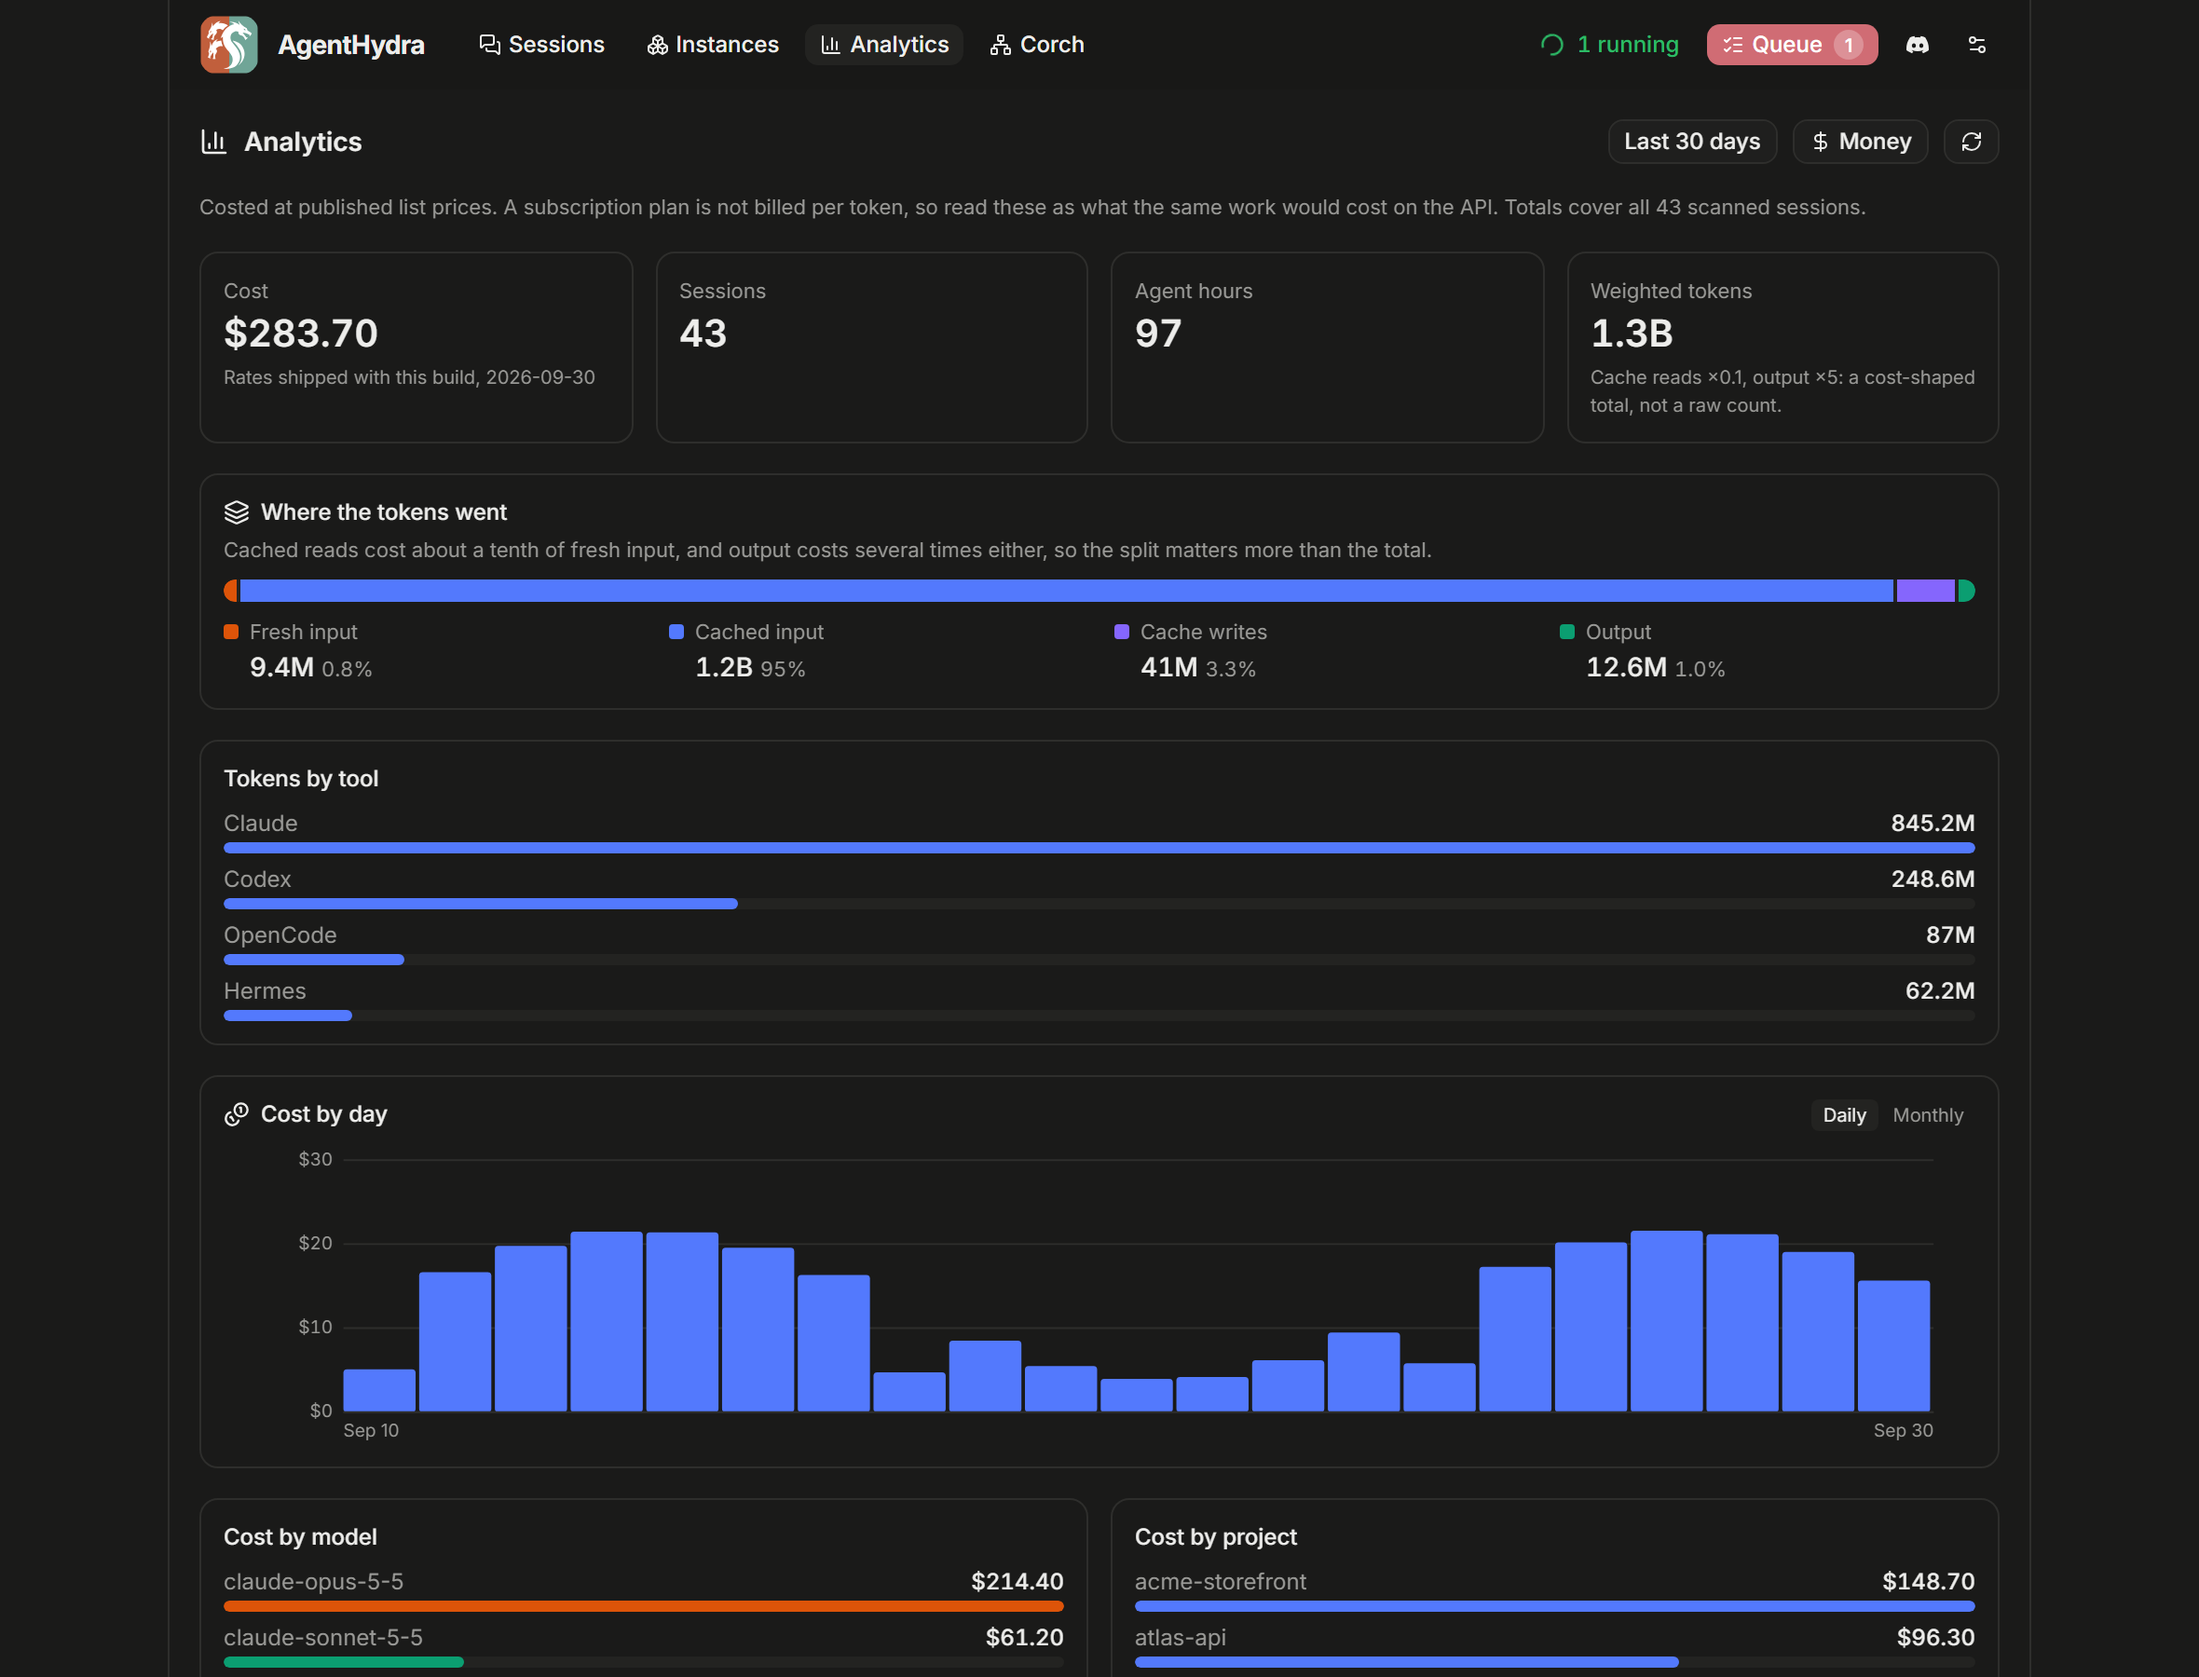
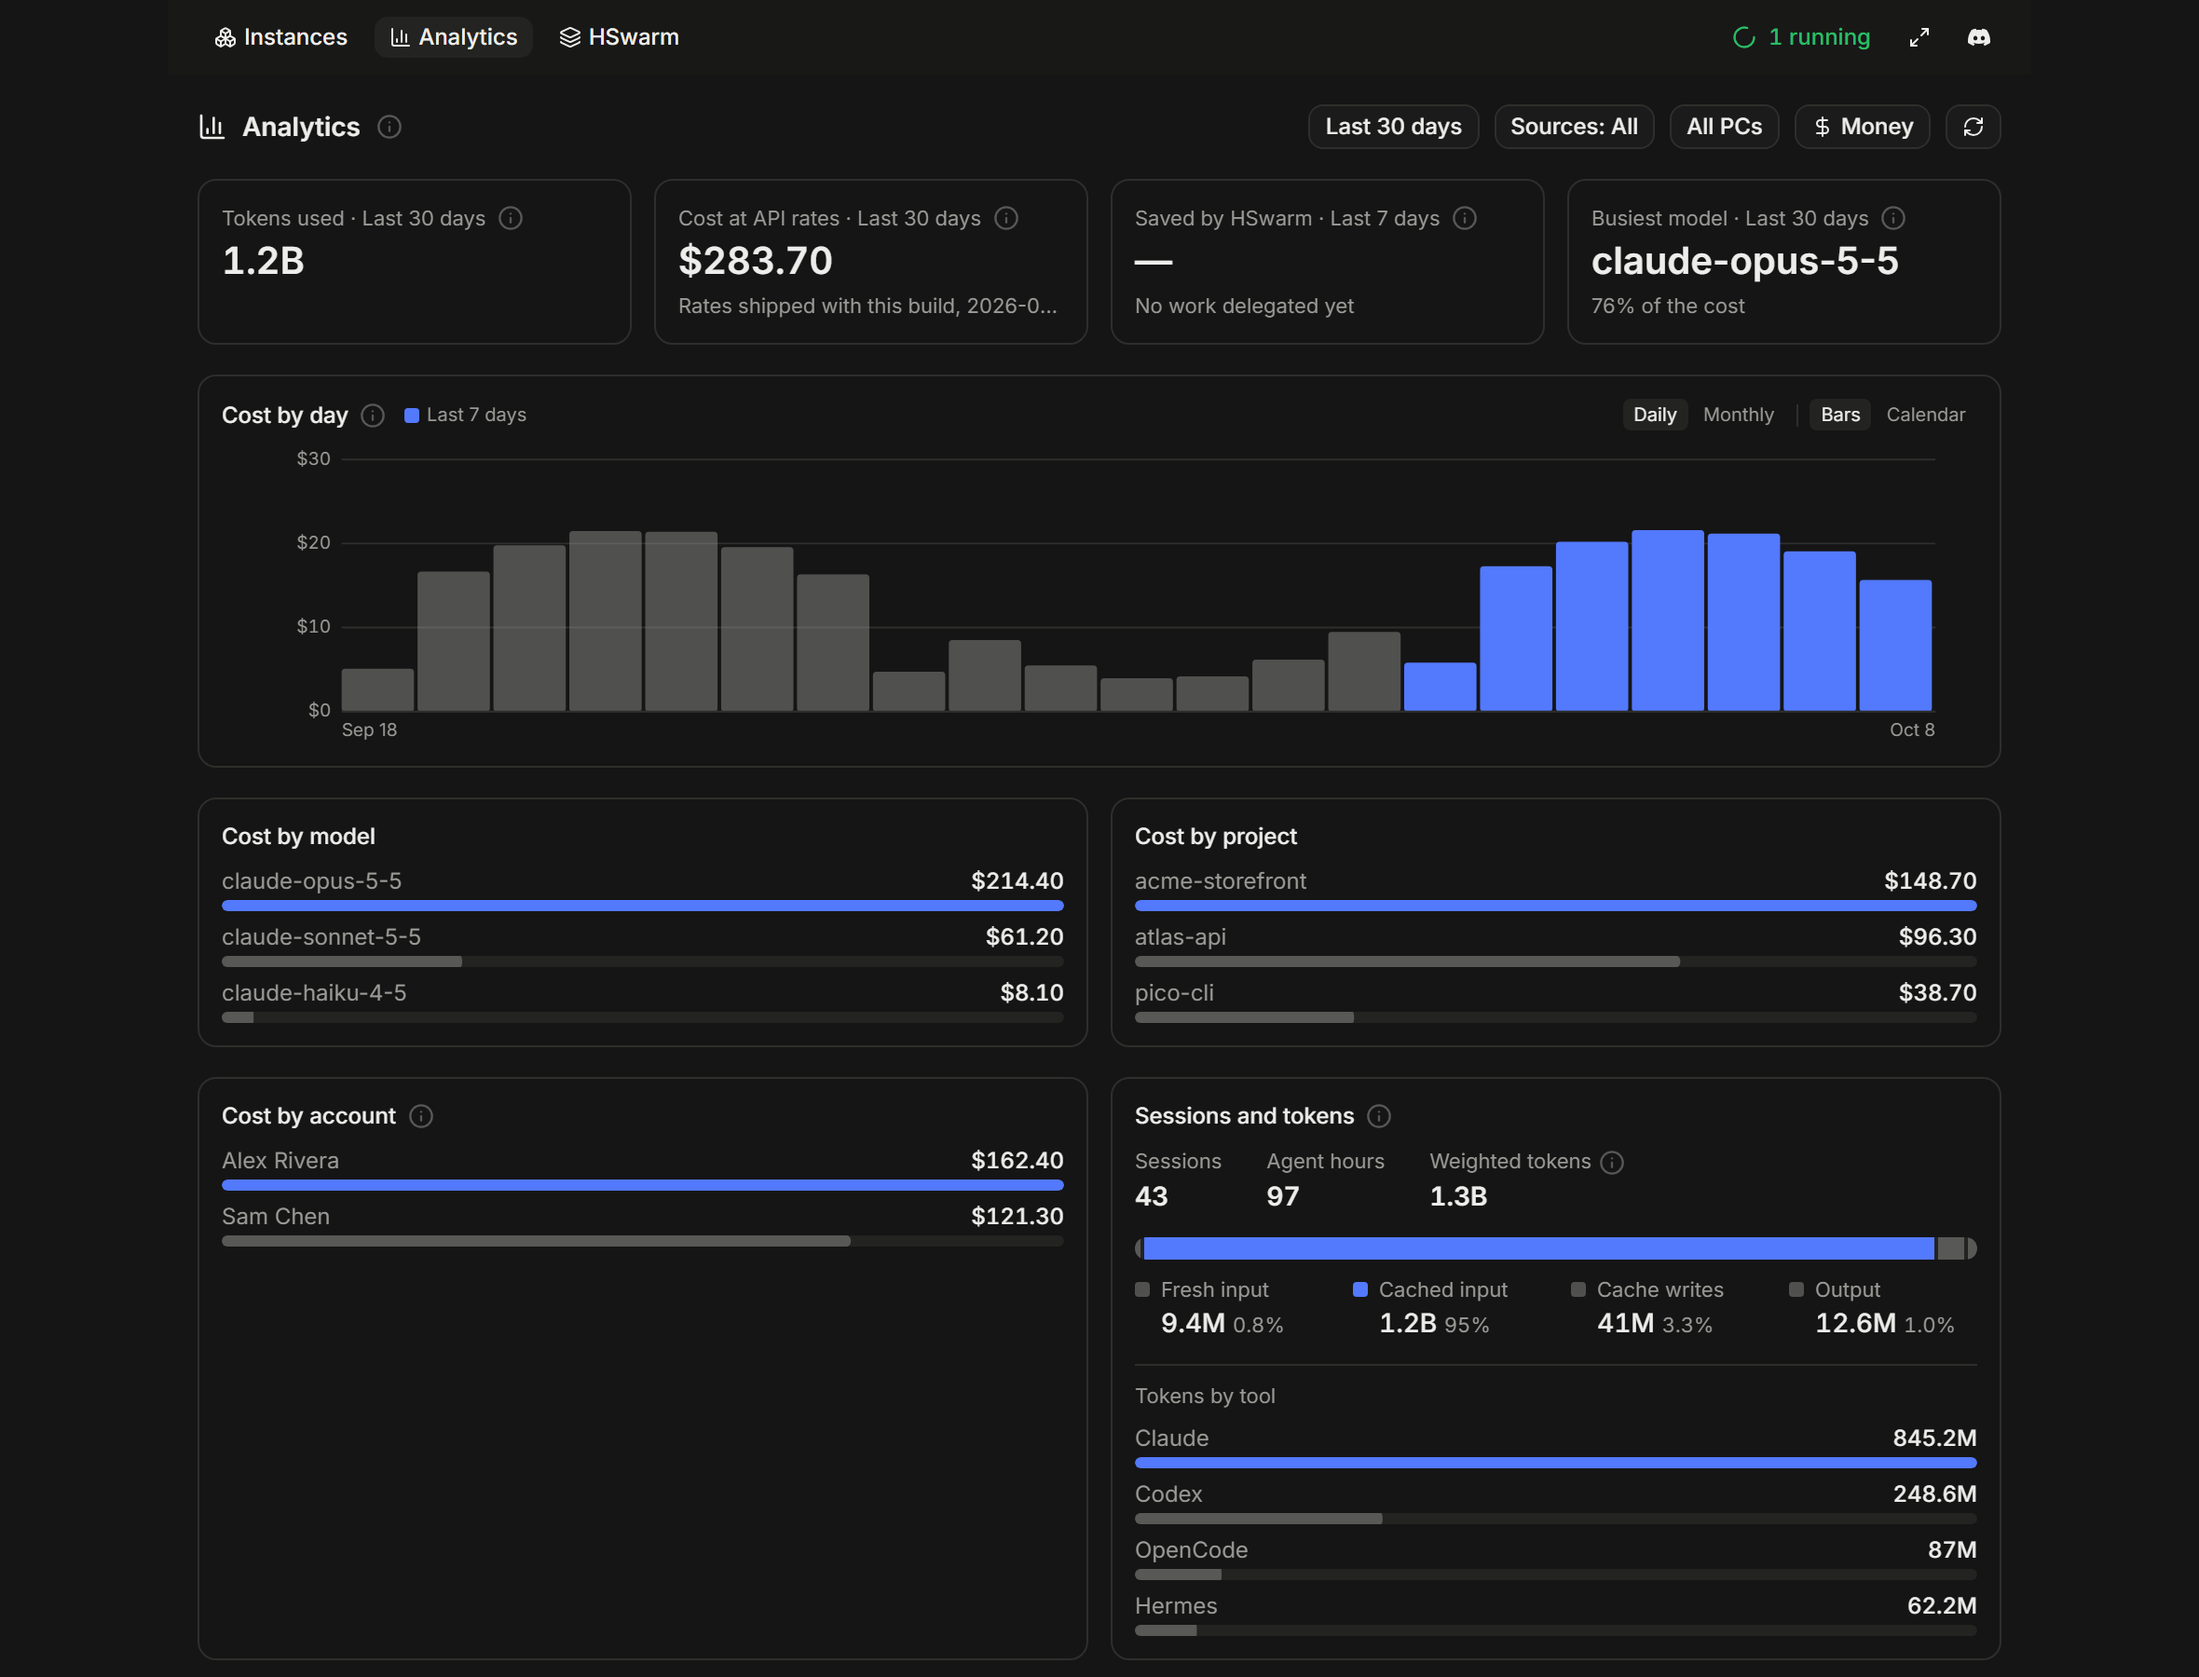
docs(readme): 2.0's window in the README screenshots; the screenshot tool shoots the build
The README's Instances and Analytics images still showed the old window, removed in 2.0.0. They are
now 2.0's (desk2/hydra), shot from invented fixtures as before: every /api/ answer synthetic, no
daemon running. The old window's sessions and queue shots go: nothing links them (README, docs, the
site).

scripts/screenshots/capture.mjs:
- serves desk2/hydra/dist through the demo server (scripts/sue-demo/serve.ts) instead of vite's dev
  server, under which the Analytics tab's lazy chunk never arrived (main stayed an empty async
  placeholder for 40 s, no error, no request left unanswered);
- polls each shot's expect for up to 30 s instead of checking it once, and a failure prints the page
  errors and the /api/ calls that found no fixture;
- Analytics' expect counts the day chart's drawn bars (2.0's bars carry no "<date>, $<cost>" labels);
- the Instances frame is 410 px tall, ending with its table (was 720, half empty).

page-fixtures.js answers the reads 2.0's window keeps warm for its other tabs (per-account tokens,
Free status and threads, HSwarm status, stats and accounts, the kit, CliMayte's totals, workers,
scorecard, remote and waves, the routing model) with their quiet states.

diff --git a/scripts/screenshots/page-fixtures.js b/scripts/screenshots/page-fixtures.js
@@ -119,7 +119,7 @@
     {
       role: 'assistant',
       kind: 'text',
-      // Carries markdown on purpose: the transcript pane renders it now (web/src/lib/markdown.ts),
+      // Carries markdown on purpose: the transcript pane renders it,
       // and a shot of plain prose would photograph a product feature that is not there. Still
       // entirely invented content.
       text: [
@@ -685,6 +685,40 @@
     [/\/api\/notifications\/events/, () => []],
     [/\/api\/monitor/, () => ({ accounts: [], enabled: false })],
     [/\/api\/update/, () => ({ status: 'idle', distribution: 'compiled' })],
+    // What 2.0's window keeps warm in the background for its other tabs (desk2/hydra's
+    // lib/warm-kinds.ts). None of those tabs is photographed, so each read gets its quiet state: no
+    // per-account tokens yet, no Free logins, HSwarm not running, no CliMayte work, and no routing
+    // model loaded.
+    [/\/api\/desktop-instance-tokens/, () => ({})],
+    [/\/api\/free\/status/, () => ({ ready: false, instances: [], jobs: [] })],
+    [/\/api\/free\/threads/, () => []],
+    [/\/api\/hswarm-status/, () => ({ running: false })],
+    [/\/api\/hswarm-accounts/, () => ({})],
+    [
+      /\/api\/hswarm\/api\/stats/,
+      () => ({
+        source: 'none',
+        empty: true,
+        total: { saved_usd: null },
+        days: [],
+        today: { saved_usd: null, tasks: 0, est_tokens: null },
+      }),
+    ],
+    [/\/api\/kit\/usage/, () => ({ rows: [], totals: {}, coverage: { sources: {} } })],
+    [
+      /\/api\/corch\/totals/,
+      () => ({
+        tasks: 0,
+        sessions: 0,
+        tokens: { input: 0, output: 0, cacheRead: 0, cacheWrite: 0 },
+        costUsd: 0,
+      }),
+    ],
+    [/\/api\/corch\/workers/, () => []],
+    [/\/api\/corch\/scorecard/, () => ({ unitsPerPercent: 0, rows: [] })],
+    [/\/api\/corch\/remote/, () => ({ enabled: false, pcs: [] })],
+    [/\/api\/corch\/waves/, () => ({ waves: [] })],
+    [/\/api\/routing\/cost-model/, () => null],
   ]
 
   window.__fixtureEscapes = []

diff --git a/README.md b/README.md
@@ -69,7 +69,7 @@ The old run queue stays as a read-only record. Starting a new headless run is re
 
 ### Where the time and the money went
 
-![The analytics view: headline cost, session and agent-hour tiles above where the tokens went, tokens by tool across Claude, Codex, OpenCode and Hermes, a cost-by-day bar chart, and cost broken down by model and project](.github/screenshots/analytics.png)
+![The analytics view: tiles for tokens used, cost at API rates, HSwarm savings and the busiest model above a cost-by-day bar chart, cost by model, project and account, and sessions and tokens by tool across Claude, Codex, OpenCode and Hermes](.github/screenshots/analytics.png)
 
 <sub>Screenshots use demo data.</sub>
 
@@ -85,7 +85,7 @@ The old run queue stays as a read-only record. Starting a new headless run is re
 
 ### Every account, in one table
 
-![The instances view: four isolated Claude Desktop instances, each with its account, plan and remaining five-hour and weekly quota, above the CLI instances table with its add-by-email box and the Codex instances table](.github/screenshots/instances.png)
+![The instances view: Claude Desktop accounts, a Codex account, a DeepSeek instance and a CLI account in one table, each with its five-hour and weekly usage, when they reset, its plan and when it was last active](.github/screenshots/instances.png)
 
 - Each Claude Desktop instance with its account, plan, quota and process. Open, focus, quit,
   create and delete them, and give each a name, icon and colour.

diff --git a/docs/REFERENCE.md b/docs/REFERENCE.md
@@ -751,14 +751,17 @@ orchestrator/README.md, "Moving a machine off the standalone checkout".
 The README's Instances and Analytics images are generated, not hand-taken:
 
 ```
+bun run build                       # first: it shoots the built window
 bun run screenshots                 # shoot and install into .github/screenshots/
 bun run screenshots -- --keep       # write to tmp/screenshots/ instead, to eyeball first
 bun run screenshots -- --url <url>  # reuse a server you already have running
 ```
 
-It starts a dev server of AgentHydra 2.0's copy of the pages (`desk2/hydra`, at `/ah/`) on a
-private port (5199, so an open dev session on 5173 is neither disturbed nor photographed), drives headless Chrome over the DevTools protocol, and writes one PNG
-per view at a viewport sized to that view's max-width shell.
+It serves the build of AgentHydra 2.0's copy of the pages (`desk2/hydra/dist`, at `/ah/`) through
+the demo server (`scripts/sue-demo/serve.ts`) on a private port (5199, so an open dev session on
+5173 is neither disturbed nor photographed), drives headless Chrome over the DevTools protocol, and
+writes one PNG per view at a viewport sized to that view's max-width shell. Not vite's dev server:
+under it the Analytics tab's code never arrived, and the build is what people get.
 
 **Nothing real is ever in frame.** These images are public, so instead of pointing a daemon at a
 synthetic home directory, `scripts/screenshots/page-fixtures.js` replaces `window.fetch` before the
